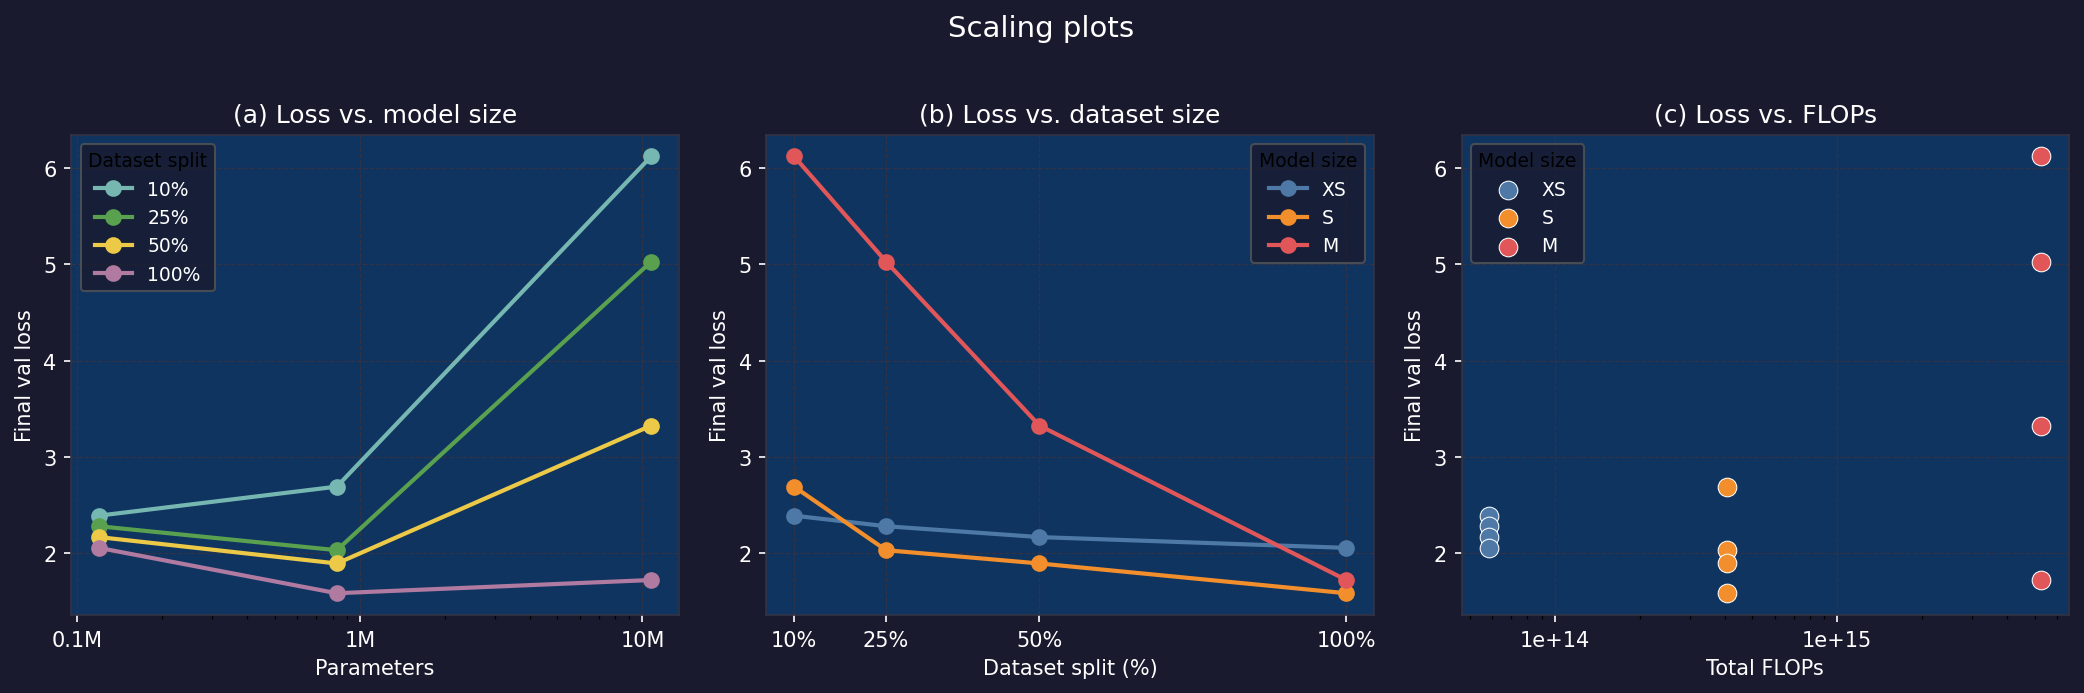
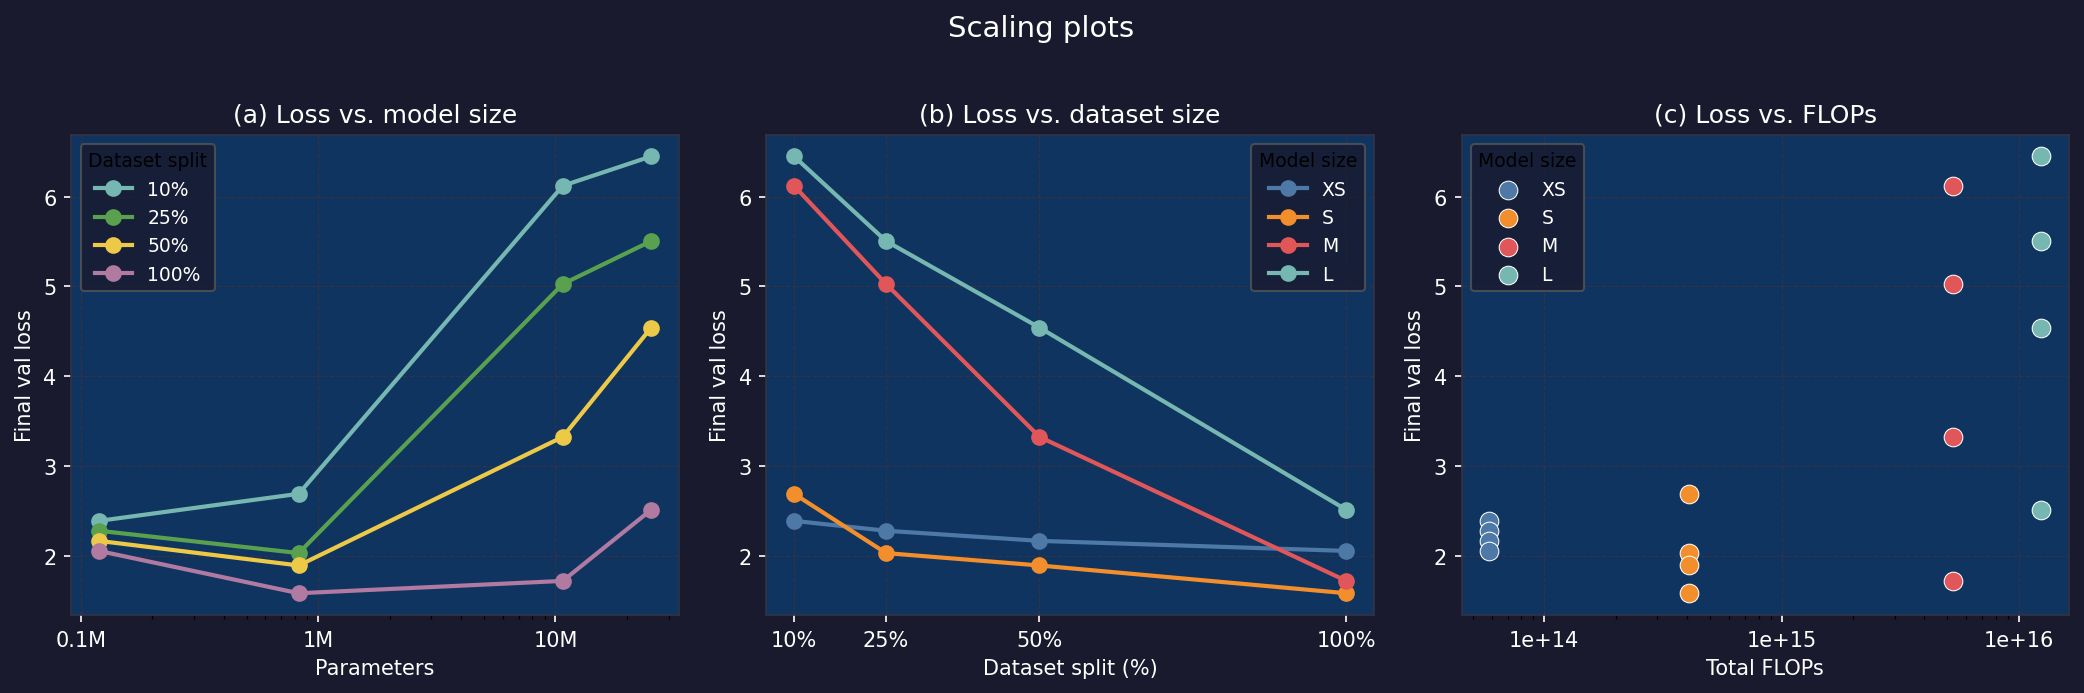
updated results and figures with new logs

diff --git a/plot.py b/plot.py
@@ -16,14 +16,15 @@ ROOT = Path(__file__).parent
 data = json.loads((ROOT / "results.json").read_text())
 complete = [r for r in data if r["final_val_loss"] is not None]
 
-SIZE_ORDER  = ["XS", "S", "M"]   # L run is incomplete
+SIZE_ORDER  = ["XS", "S", "M", "L"]
 SPLIT_ORDER = [10, 25, 50, 100]
-SIZE_PARAMS = {"XS": 119_168, "S": 828_672, "M": 10_745_088}
+SIZE_PARAMS = {"XS": 119_168, "S": 828_672, "M": 10_745_088, "L": 25_338_880}
 SIZE_FLOPS  = {"XS": 58_573_455_360_000,
                "S":  407_308_861_440_000,
-               "M":  5_281_425_653_760_000}
+               "M":  5_281_425_653_760_000,
+               "L":  12_454_566_297_600_000}
 
-SIZE_COLOR  = {"XS": "#4e79a7", "S": "#f28e2b", "M": "#e15759"}
+SIZE_COLOR  = {"XS": "#4e79a7", "S": "#f28e2b", "M": "#e15759", "L": "#76b7b2"}
 SPLIT_COLOR = {10: "#76b7b2", 25: "#59a14f", 50: "#edc948", 100: "#b07aa1"}
 
 FIGS = ROOT / "figures"
@@ -38,7 +39,7 @@ def val_loss(size, split):
 
 
 # ── fig 1 · loss grid heatmap ─────────────────────────────────────────────────
-fig, ax = plt.subplots(figsize=(6, 3.2))
+fig, ax = plt.subplots(figsize=(6, 4.2))
 fig.patch.set_facecolor("#1a1a2e")
 ax.set_facecolor("#1a1a2e")
 
@@ -47,16 +48,17 @@ grid = np.array([[val_loss(s, sp) or np.nan
                  for s in SIZE_ORDER], dtype=float)
 
 im = ax.imshow(grid, cmap="RdYlGn_r", aspect="auto",
-               vmin=np.nanmin(grid), vmax=min(np.nanmax(grid), 3.0))
+               vmin=np.nanmin(grid), vmax=np.nanmax(grid))
 
 # annotate cells
 for i, size in enumerate(SIZE_ORDER):
     for j, split in enumerate(SPLIT_ORDER):
         v = grid[i, j]
         txt = f"{v:.4f}" if not np.isnan(v) else "—"
-        color = "black" if 1.5 < v < 2.8 else "white"
+        mid = (np.nanmin(grid) + np.nanmax(grid)) / 2
+        color = "black" if np.nanmin(grid) < v < mid else "white"
         ax.text(j, i, txt, ha="center", va="center",
-                fontsize=11, fontweight="bold", color=color)
+                fontsize=10, fontweight="bold", color=color)
 
 ax.set_xticks(range(len(SPLIT_ORDER)))
 ax.set_xticklabels([f"{s}%" for s in SPLIT_ORDER], color="white", fontsize=11)

diff --git a/parser.py b/parser.py
@@ -6,7 +6,7 @@ Parse nanoGPT training log files in logs/ and emit a JSON summary with:
   - total_flops      (int, raw value from log)
 for every run found.
 """
-
+import math
 import json
 import re
 from pathlib import Path
@@ -62,6 +62,7 @@ def parse_log(path: Path) -> dict:
         "total_flops":      total_flops,
         "final_train_loss": final_train_loss,
         "final_val_loss":   final_val_loss,
+        "ratio":            f"1:{round(81_920_000/num_parameters)}",
     }
 
 
